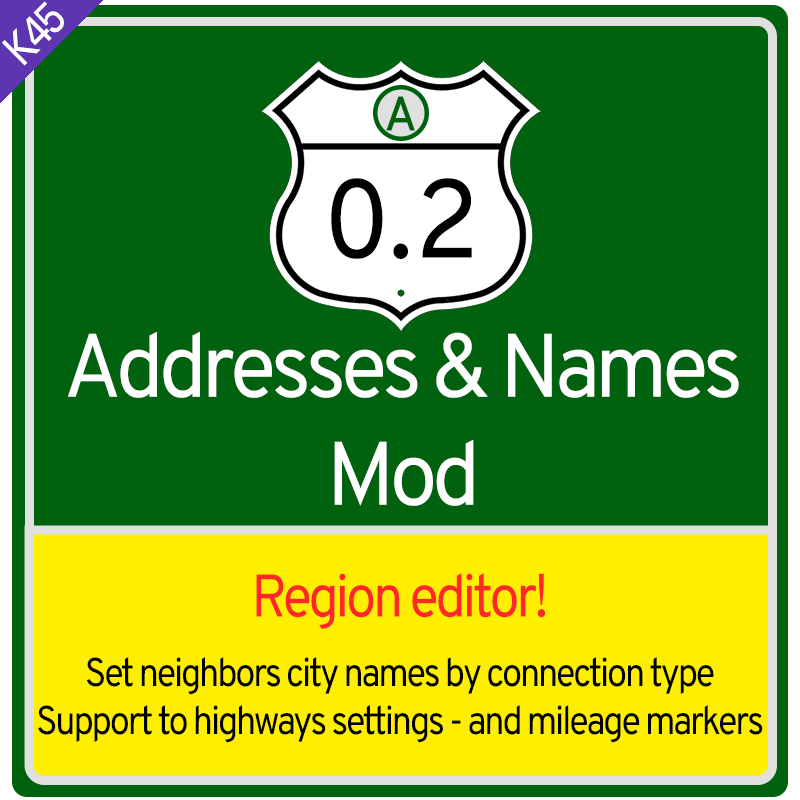
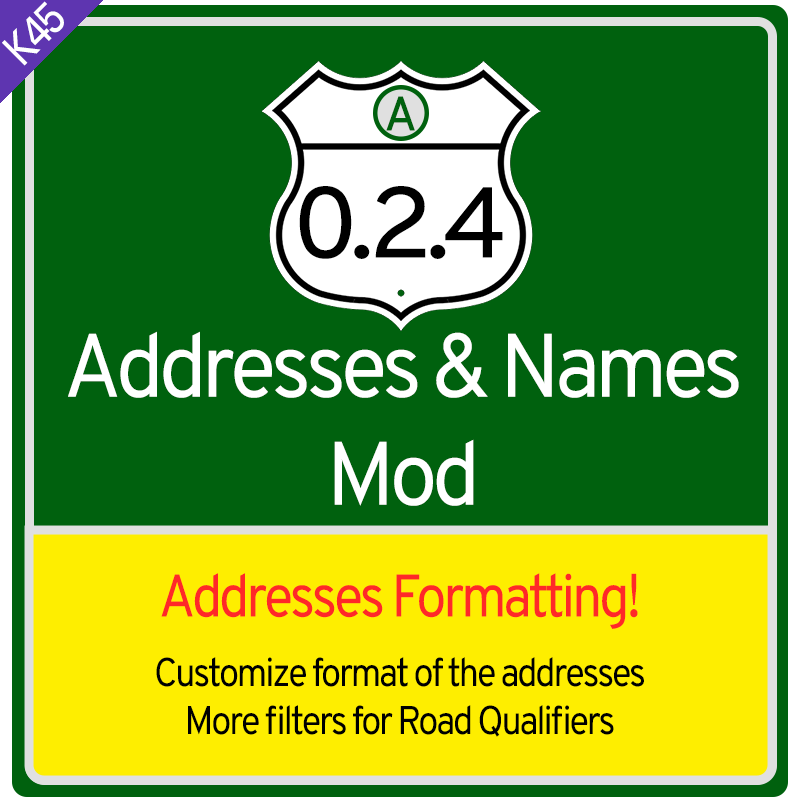
v0.2.4.0 Updating changelog Added changelog formatting to the project readme

Changed region(s): [[0.0312, 0.8125, 0.9688, 0.9375], [0.1875, 0.7188, 0.8125, 0.7812], [0.375, 0.2188, 0.625, 0.3438]]

diff --git a/BelzontAdr/changelog.md b/BelzontAdr/changelog.md
@@ -1,21 +1,17 @@
-# v0.2.3r4 (04-DEC-25)
+# v0.2.4r0 (06-APR-26)
 
-- Fixes for a vanilla issue about loading modding UI
-
-## FROM v0.2.3r3 (04-DEC-25)
-
-- Fixes for 1.5 update
-
-## FROM  v0.2.3r1 (02-NOV-25)
-
-- Fixed issue that prevented changing naming source from buildings and roads
-
-# v0.2.3r0 (29-OCT-25)
-
-- Added support for B&P update
-- Added serial number counting by building
-- Added subcategories for serial numbering of road vehicles (Bus, Taxi, Ambulance, etc)
-- Added serial number editor for road vehicles subcategories
-- Added support to naming rules for track-based bridges
-- Now the name of the vehicles on game UI also show their plates or serial number, depending on vehicle type or service
-- Minor UI fixes
+- **Custom address format:** new "Address Format" tab in Override Settings lets you define a custom address pattern using tokens {number}, {street}, {district}, {brand}; clickable token chips insert at cursor and a live preview updates in real time; applies to both buildings and transport stops
+- Added 3 new road qualifier rule conditions: elevation state (bridge/tunnel/at road level), car lane count range, and road width range
+- Road qualifier condition fields now show tooltips describing what each setting controls
+- Vehicle plate settings include a live preview showing sample generated plates, updating in real time as settings change
+- Vehicle plate slot types (Regional, Local, Car Number) are now color-coded in the plate pattern editor
+- Name files in the library now auto-reload within ~2 seconds when modified by an external editor, without requiring a manual reload
+- Name file loading is now asynchronous; no more game startup freeze with large libraries; a loading indicator is shown and unchanged files are skipped on reload
+- Mod UI is now available in all Cities: Skylines 2 supported languages via machine translation (German, Spanish, French, Italian, Japanese, Korean, Dutch, Polish, Russian, Simplified Chinese)
+- Fixed city name seeds not being saved with the city; previously road and district names could change every time the city was reloaded
+- Fixed region neighbor city list sometimes showing stale data after saving a city entry
+- Fixed GitHub name file import treating each character as a separate name entry instead of each line
+- Fixed transport station address reference panel appearing for buildings that already have a custom name set
+- Fixed address customization logic and custom name display options in building info panels
+- Fixed multiple UI state issues in naming and plate settings panels that could cause inputs not to update or settings not to be applied
+- Fixed the "Forbid" icon not appearing on tristate toggle buttons

diff --git a/.klyte-kanban/README.md b/.klyte-kanban/README.md
@@ -40,7 +40,7 @@ The subfolder `_auxFiles/` contains shared auxiliary files that can help with th
 The `changelog.md` file should follow the following format:
 
 ```markdown
-# vX.Y.ZrW - DD-MMM-YY
+# vX.Y.ZrW (DD-MMM-YY)
 - Behavior change 1
 - Behavior change 2
 - New feature 1
@@ -57,9 +57,10 @@ The `changelog.md` file should follow the following format:
 #### Explaining sections from the changelog
 
 - The top section (before the first `## FROM`) describes the changes introduced in the current version.
-- The `## FROM` section describes the changes from the previous version to the current version as it was previously on the changelog, just replacing the `#` header with `## FROM` to indicate that these are the changes that were in the previous version before the current one.
-  - NOTE: This section shall only be kept if the previous version was released up to 1 month ago. After that, it should be removed to keep the changelog concise and focused on recent changes.
-  - The `## FROM` token is used to allow automated tools to easily identify and remove the previous version's changes when publishing to Paradox Mods, since the changelog there should only contain the current version's changes.
+- About previous versions:
+    - If the previous version was released more than 1 month ago, the file shall be cleaned before start.
+    - If the previous version was released within 1 month, the old `#` that starts the file shall be replaced with `## FROM`.
+    - The `## FROM` token is used to allow automated tools to easily identify and remove the previous version's changes when publishing to Paradox Mods, since the changelog there should only contain the current version's changes.
 - The order of changes inside the version shall be: Behavior changes (changes that break compatibility or change existing features), new features, bug fixes. Important changes can be highlighted with bold section markers. No emojis.
 - MMM shall always be 3 letters, capitalized. Example: `15-JUN-24`. Month names always in English, regardless of locale.  
 